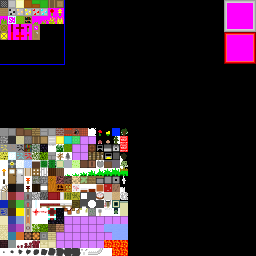
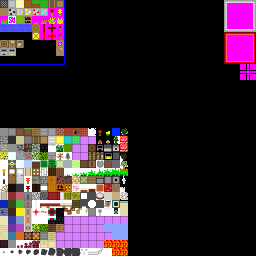
Fixed infinite jumping, added lakes to worldgen

Changed region(s): [[0.0, 0.0938, 0.25, 0.2188], [0.9375, 0.25, 1.0, 0.3125]]

diff --git a/src/worldgen.c b/src/worldgen.c
@@ -6,7 +6,15 @@
 #include "engine/includes/FastNoiseLite.h"
 #include "engine/util.h"
 
-//TODO: Switch all random usage to second noise - that way, values are reproducible and depend on the seed
+#define TREE_SIZE 5
+#define TREE_HEIGHT 6
+#define TREE_LEAVES_START 3
+
+#define RAND_FLOWER   0
+#define RAND_TREE     8
+#define RAND_ORE    128
+
+#define WATER_LEVEL 6
 
 fnl_state terrainNoise;
 fnl_state randNoise;
@@ -25,14 +33,10 @@ void initWorldgen(uint32_t seed)
     randNoise.seed = seed;
 }
 
-#define TREE_SIZE 5
-#define TREE_HEIGHT 6
-#define TREE_LEAVES_START 3
-
-float getNoiseRand(int16_t chunkX, int16_t chunkZ, uint8_t x, uint8_t z)
+float getNoiseRand(int16_t chunkX, int16_t chunkZ, uint8_t x, uint8_t z, uint8_t y)
 {
     //Scale noise to be within 0 to 1
-    return (fnlGetNoise2D(&randNoise, (chunkX * CHUNK_SIZE + x) * 10, (chunkZ * CHUNK_SIZE + z) * 10) + 1) / 2;
+    return (fnlGetNoise3D(&randNoise, (chunkX * CHUNK_SIZE + x) * 10, y, (chunkZ * CHUNK_SIZE + z) * 10) + 1) / 2;
 }
 
 void generateTree(Chunk* chunk, uint8_t baseX, uint8_t baseY, uint8_t baseZ)
@@ -80,14 +84,14 @@ void generateChunk(Chunk* chunk)
             for(uint8_t j = 0; j < CHUNK_SIZE; j++)
             {
                 uint8_t pos = j + (y * CHUNK_SIZE);
-
+                
                 if(pos == height)
                 {
-                    float rand = getNoiseRand(x, z, i, k);
-                    if(rand < 0.005f)
+                    float rand = getNoiseRand(x, z, i, k, RAND_FLOWER);
+                    if(rand < 0.01f)
                     {
                         CHUNK_BLOCK(chunk, i, j, k).type = BLOCK_FLOWER;
-                        if(rand < 0.0025f)
+                        if(rand < 0.005f)
                         {
                             CHUNK_BLOCK(chunk, i, j, k).data = BLOCK_DATA_TEXTURE1;
                         }
@@ -113,7 +117,33 @@ void generateChunk(Chunk* chunk)
                     }
                     else
                     {
-                        CHUNK_BLOCK(chunk, i, j, k).type = BLOCK_STONE;
+                        float rand = getNoiseRand(x, z, i, k, RAND_ORE);
+
+                        if(rand < 0.05f)
+                        {
+                            CHUNK_BLOCK(chunk, i, j, k).type = BLOCK_IRON_ORE;
+                        }
+                        else if(rand < 0.1f)
+                        {
+                            CHUNK_BLOCK(chunk, i, j, k).type = BLOCK_COAL_ORE;
+                        }
+                        else
+                        {
+                            CHUNK_BLOCK(chunk, i, j, k).type = BLOCK_STONE;
+                        }
+                    }
+                }
+
+                //Generate lakes
+                if(pos <= WATER_LEVEL)
+                {
+                    if(pos >= height)
+                    {
+                        CHUNK_BLOCK(chunk, i, j, k).type = BLOCK_WATER;
+                    }
+                    else if(pos == height - 1)
+                    {
+                        CHUNK_BLOCK(chunk, i, j, k).type = BLOCK_SAND;
                     }
                 }
             }
@@ -121,10 +151,10 @@ void generateChunk(Chunk* chunk)
     }
 
     //Place tree?
-    if(getNoiseRand(x, z, 4, 4) < 0.05f)
+    if(getNoiseRand(x, z, 4, 4, RAND_TREE) < 0.05f)
     {
-        uint8_t baseX = getNoiseRand(x, z, 0, 0) * (CHUNK_SIZE - TREE_SIZE);
-        uint8_t baseZ = getNoiseRand(x, z, 8, 8) * (CHUNK_SIZE - TREE_SIZE);
+        uint8_t baseX = getNoiseRand(x, z, 0, 0, RAND_TREE) * (CHUNK_SIZE - TREE_SIZE);
+        uint8_t baseZ = getNoiseRand(x, z, 8, 8, RAND_TREE) * (CHUNK_SIZE - TREE_SIZE);
 
         uint8_t baseY = 255;
         for(uint8_t j = 0; j < CHUNK_SIZE; j++)

diff --git a/src/player.c b/src/player.c
@@ -58,7 +58,6 @@ uint8_t getValueWithCollision(Player* player)
 {
     calcPlayerAABB(player);
     return intersectsAABBWorld(&player->aabb);
-    //return intersectsAABBChunk(getPlayerChunk(&player->position), &player->aabb);
 }
 
 void calcPlayer(Player* player, uint32_t ticks)
@@ -72,12 +71,7 @@ void calcPlayer(Player* player, uint32_t ticks)
 
     //Apply movement to position
     float diff = (player->speed * ticks) / 1000.0f;
-    /**
-    player->position.z -= cos(player->rotation.y) * cos(player->rotation.x) * diff;
-    player->position.x += sin(player->rotation.y) * cos(player->rotation.x) * diff;
-    player->position.y -= sin(player->rotation.x) * diff;
-    **/
-   
+
     float old = player->position.x;
     player->position.x += sin(player->rotation.y) * diff;
     if(getValueWithCollision(player))
@@ -94,15 +88,15 @@ void calcPlayer(Player* player, uint32_t ticks)
 
     //Apply gravity - or jumping
     old = player->position.y;
-    if(player->jumping)
+    if(player->jumping > 1)
     {
-        if(player->jumping >= ticks)
+        if(player->jumping > ticks)
         {
             player->jumping -= ticks;
         }
         else
         {
-            player->jumping = 0;
+            player->jumping = 1;
         }
         player->position.y += GRAVITY * ticks / 1000.0f;
     }
@@ -114,6 +108,10 @@ void calcPlayer(Player* player, uint32_t ticks)
     if(getValueWithCollision(player))
     {
         player->position.y = old;
+        if(player->jumping)
+        {
+            player->jumping = 0;
+        }
     }
 
     //TODO: Collision check

diff --git a/src/block.c b/src/block.c
@@ -45,7 +45,10 @@ const vec2 textures[] = {
     {48, 16}, //Wheat 2
     {56, 16}, //Wheat 3
 
-    {0, 24} //Redstone lamp off
+    { 0, 24}, //Water 0
+    { 8, 24}, //Water 1
+    {16, 24}, //Water 2
+    {24, 24}  //Water 3
 };
 
 const uint8_t normalBlockTextures[] = {
@@ -60,7 +63,8 @@ const uint8_t normalBlockTextures[] = {
     [BLOCK_REDSTONE_ORE] = 12,
     [BLOCK_DIAMOND_ORE] = 13,
     [BLOCK_GLASS] = 17,
-    [BLOCK_LEAVES] = 18
+    [BLOCK_LEAVES] = 18,
+    [BLOCK_WATER] = 24
 };
 
 const uint8_t orientedBlockTextures[][6] = {
@@ -261,6 +265,25 @@ uint8_t canPlaceBlock(BlockType toPlace, BlockType below)
         case BLOCK_TALL_GRASS:
         {
             return (below == BLOCK_DIRT || below == BLOCK_GRASS);
+        }
+        default:
+        {
+            return 1;
+        }
+    }
+}
+
+uint8_t isBlockCollidable(BlockType type)
+{
+    switch(type)
+    {
+        case BLOCK_AIR:
+        case BLOCK_WHEAT:
+        case BLOCK_FLOWER:
+        case BLOCK_TALL_GRASS:
+        case BLOCK_WATER:
+        {
+            return 0;
         }
         default:
         {

diff --git a/src/main.c b/src/main.c
@@ -5,6 +5,7 @@
 #include "engine/audio.h"
 #include "engine/input.h"
 #include "engine/camera.h"
+#include "engine/image.h"
 
 #include "player.h"
 #include "world.h"
@@ -119,6 +120,7 @@ void calcFrame(uint32_t ticks)
             }
         }
 
+        //TODO: Don't place if it'd cause a collision with our player
         //Place new block
         if(getWorldBlock(&block)->type == BLOCK_AIR)
         {
@@ -162,6 +164,8 @@ void drawFrame()
     setOrtho();
     glLoadIdentity();
     glBegin(GL_QUADS);
+    //Crosshair
+    drawTexQuad(WINX / 2 - 8, WINY / 2 - 8, 16, 16, 10, PTC(240), PTC(64), PTC(240 + 15), PTC(64 + 15));
     drawHotbar();
     glEnd();
 
@@ -175,7 +179,7 @@ void drawFrame()
 int main(int argc, char **argv)
 {
     SDL_Init(SDL_INIT_VIDEO | SDL_INIT_AUDIO);
-    initVideo((vec4) {.d = {0, 0.8f, 1.0f, 1.0f}}, (vec4) {.d = {0, 0, WINX, WINY}}, 70, 0.5f, 8 * VIEW_DISTANCE);
+    initVideo((vec4) {.d = {0, 0.8f, 1.0f, 1.0f}}, (vec4) {.d = {0, 0, WINX, WINY}}, 70, 0.3f, 8 * VIEW_DISTANCE);
     initAudio(MIX_MAX_VOLUME, 2, 2);
 
     player.position = (vec3) {0, 0, 0};

diff --git a/src/block.h b/src/block.h
@@ -28,6 +28,8 @@ typedef enum {
     BLOCK_BOOKSHELF,
     BLOCK_WHEAT,
 
+    BLOCK_WATER,
+
     BLOCK_REDSTONE_LAMP,
     BLOCK_REDSTONE_WIRE,
     BLOCK_REDSTONE_TORCH,
@@ -46,8 +48,9 @@ typedef struct {
 /**
  * Block data has the following format:
  * XXXX XXXX
- *        TT - Texture, if set block uses normal texture + offset. Used by: Flower, Wheat
- *      CC   - Counter
+ *        TT - Texture, if set block uses normal texture + offset. Used by: Flower, Wheat, Water
+ *      CC   - Counter. Used by: Wheat, Water
+ *       DDD - Direction, determines which way the block is facing.
  **/
 
 /** ---------- Block data definitions ---------- **/
@@ -76,5 +79,6 @@ void drawBlock(Block* block, uint8_t x, uint8_t y, uint8_t z, uint8_t occlusion)
 
 uint8_t isOpaqueBlock(BlockType type);
 uint8_t canPlaceBlock(BlockType toPlace, BlockType below);
+uint8_t isBlockCollidable(BlockType type);
 
 #endif

diff --git a/src/world.c b/src/world.c
@@ -401,20 +401,14 @@ AABBSide intersectsRayWorld(vec3* origin, vec3* direction, BlockPos* block, floa
         }
     }
 
+    if(minDistance > MAX_RAY_DISTANCE)
+    {
+        return AABB_NONE;
+    }
+
     *block = minBlock;
     *distance = minDistance;
     return minSide;
-}
-
-Chunk* getPlayerChunk(vec3* playerPos)
-{
-    ChunkPos playerChunkPos = {
-        (playerPos->x + 20) / CHUNK_SIZE,
-        (playerPos->y + 20) / CHUNK_SIZE,
-        (playerPos->z + 20) / CHUNK_SIZE
-    };
-
-    return WORLD_CHUNK(playerChunkPos.x, playerChunkPos.y, playerChunkPos.z);
 }
 
 uint8_t intersectsAABBWorld(AABB* aabb)

diff --git a/src/chunk.c b/src/chunk.c
@@ -237,7 +237,7 @@ uint8_t intersectsAABBChunk(Chunk* chunk, AABB* aabb)
         {
             for(uint8_t k = 0; k < CHUNK_SIZE; k++)
             {
-                if(CHUNK_BLOCK(chunk, i, j, k).type != BLOCK_AIR)
+                if(CHUNK_BLOCK(chunk, i, j, k).type != BLOCK_AIR && isBlockCollidable(CHUNK_BLOCK(chunk, i, j, k).type))
                 {
                     //TODO: Create AABB by block type
                     vec3 min = {chunk->aabb.min.x + i, chunk->aabb.min.y + j, chunk->aabb.min.z + k};

diff --git a/src/inventory.c b/src/inventory.c
@@ -2,6 +2,7 @@
 
 #include "engine/image.h"
 #include "engine/video.h"
+#include "engine/util.h"
 
 BlockType hotbar[HOTBAR_SIZE] = HOTBAR_INITIAL;
 uint8_t hotbarCursor = 0;
@@ -21,6 +22,7 @@ void drawHotbar()
             drawTexQuad(WINX / 2 - (32 * 1.5f) + (i * 32), 8, 32, 32, UIBH, PTC(224), PTC(0), PTC(224 + 31), PTC(31));
         }
     }
+
     //TODO: Draw blocks
 }
 

diff --git a/src/world.h b/src/world.h
@@ -12,6 +12,8 @@
 
 #define VIEW_DISTANCE 5
 
+#define MAX_RAY_DISTANCE 5
+
 #define TICK_RATE 250
 
 void initWorld();
@@ -23,7 +25,5 @@ void setWorldBlock(BlockPos* pos, Block block);
 
 AABBSide intersectsRayWorld(vec3* origin, vec3* direction, BlockPos* block, float* distance);
 uint8_t intersectsAABBWorld(AABB* aabb);
-
-Chunk* getPlayerChunk(vec3* playerPos);
 
 #endif

diff --git a/src/engine/video.c b/src/engine/video.c
@@ -58,7 +58,7 @@ void initVideo(vec4 clearColor, vec4 viewport, float fov, float near, float far)
 	
 	//Initialize projection matrices
     mPerspective = perspective(fov, (float) WINX / (float) WINY, near, far);
-	mOrtho = ortho(0, WINX, 0, WINY, -16, 0);
+	mOrtho = ortho(0, WINX, 0, WINY, -32, 0);
 }
 
 void clearFrame()

diff --git a/src/player.h b/src/player.h
@@ -23,7 +23,7 @@ typedef struct {
 
 #define GRAVITY 9.8f
 
-#define JUMP_TIME 250
+#define JUMP_TIME 200
 
 void playerMove(Player* player, int8_t dir, uint32_t ticks);
 void playerLook(Player* player, int8_t dirX, int8_t dirY, uint32_t ticks);
